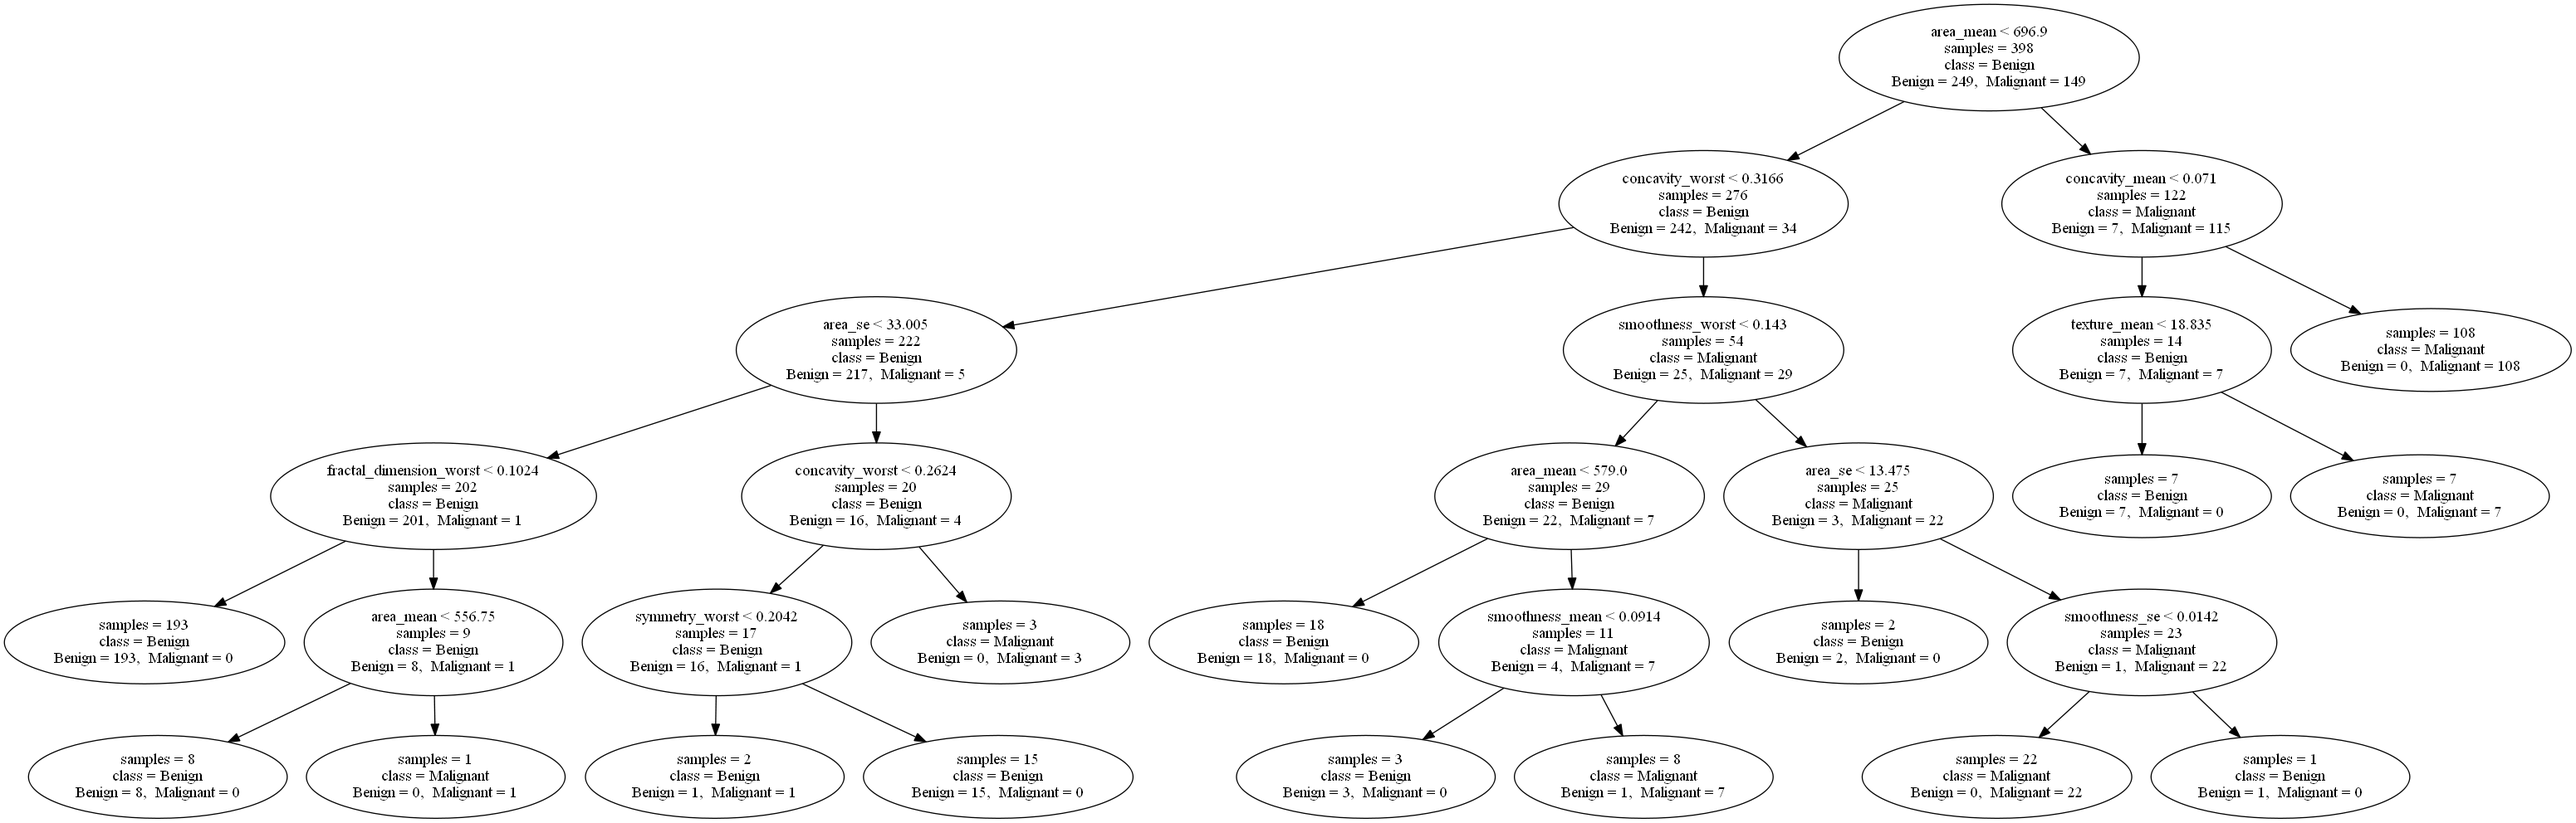
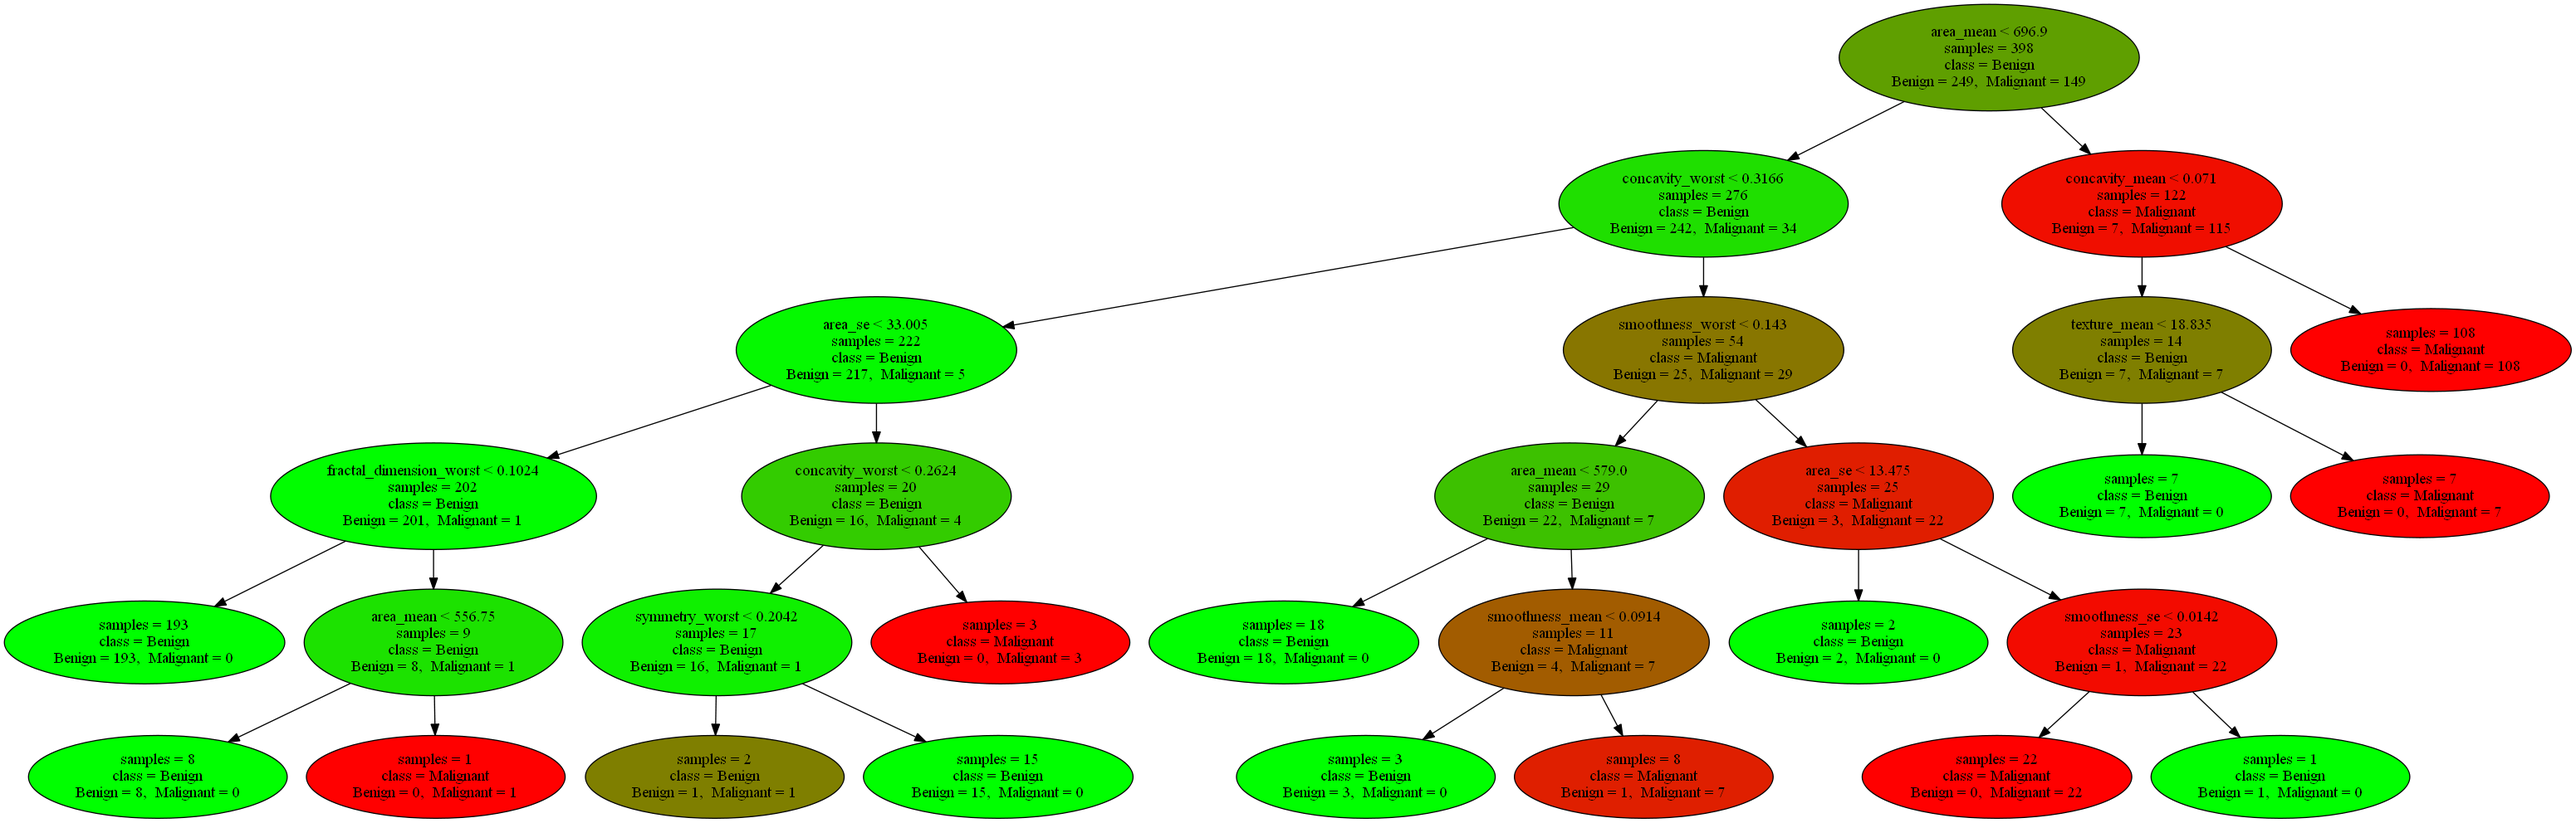
Added node coloring based on majority class info.

diff --git a/source/helper_functions.py b/source/helper_functions.py
@@ -68,4 +68,9 @@ def add_digraph_node(nid, node, graph, class_names):
     neg_cl_num = node[neg_cl_name]
     pos_cl_num = node[pos_cl_name]
     label += f"{neg_cl_name} = {neg_cl_num},  {pos_cl_name} = {pos_cl_num}"
-    graph.node(str(nid), label)
+    # interpolate between red and green color RGB codes to color the more
+    # "positive" nodes more redish, and the more "negative" nodes greenish.
+    pos_cl_ratio = pos_cl_num / (pos_cl_num + neg_cl_num)
+    node_color_rgb = (int(255*pos_cl_ratio), int(255*(1 - pos_cl_ratio)), 0)
+    rgb2hex = lambda c: "#{:02x}{:02x}{:02x}".format(*c)
+    graph.node(str(nid), label, style='filled', fillcolor=str(rgb2hex(node_color_rgb)))
